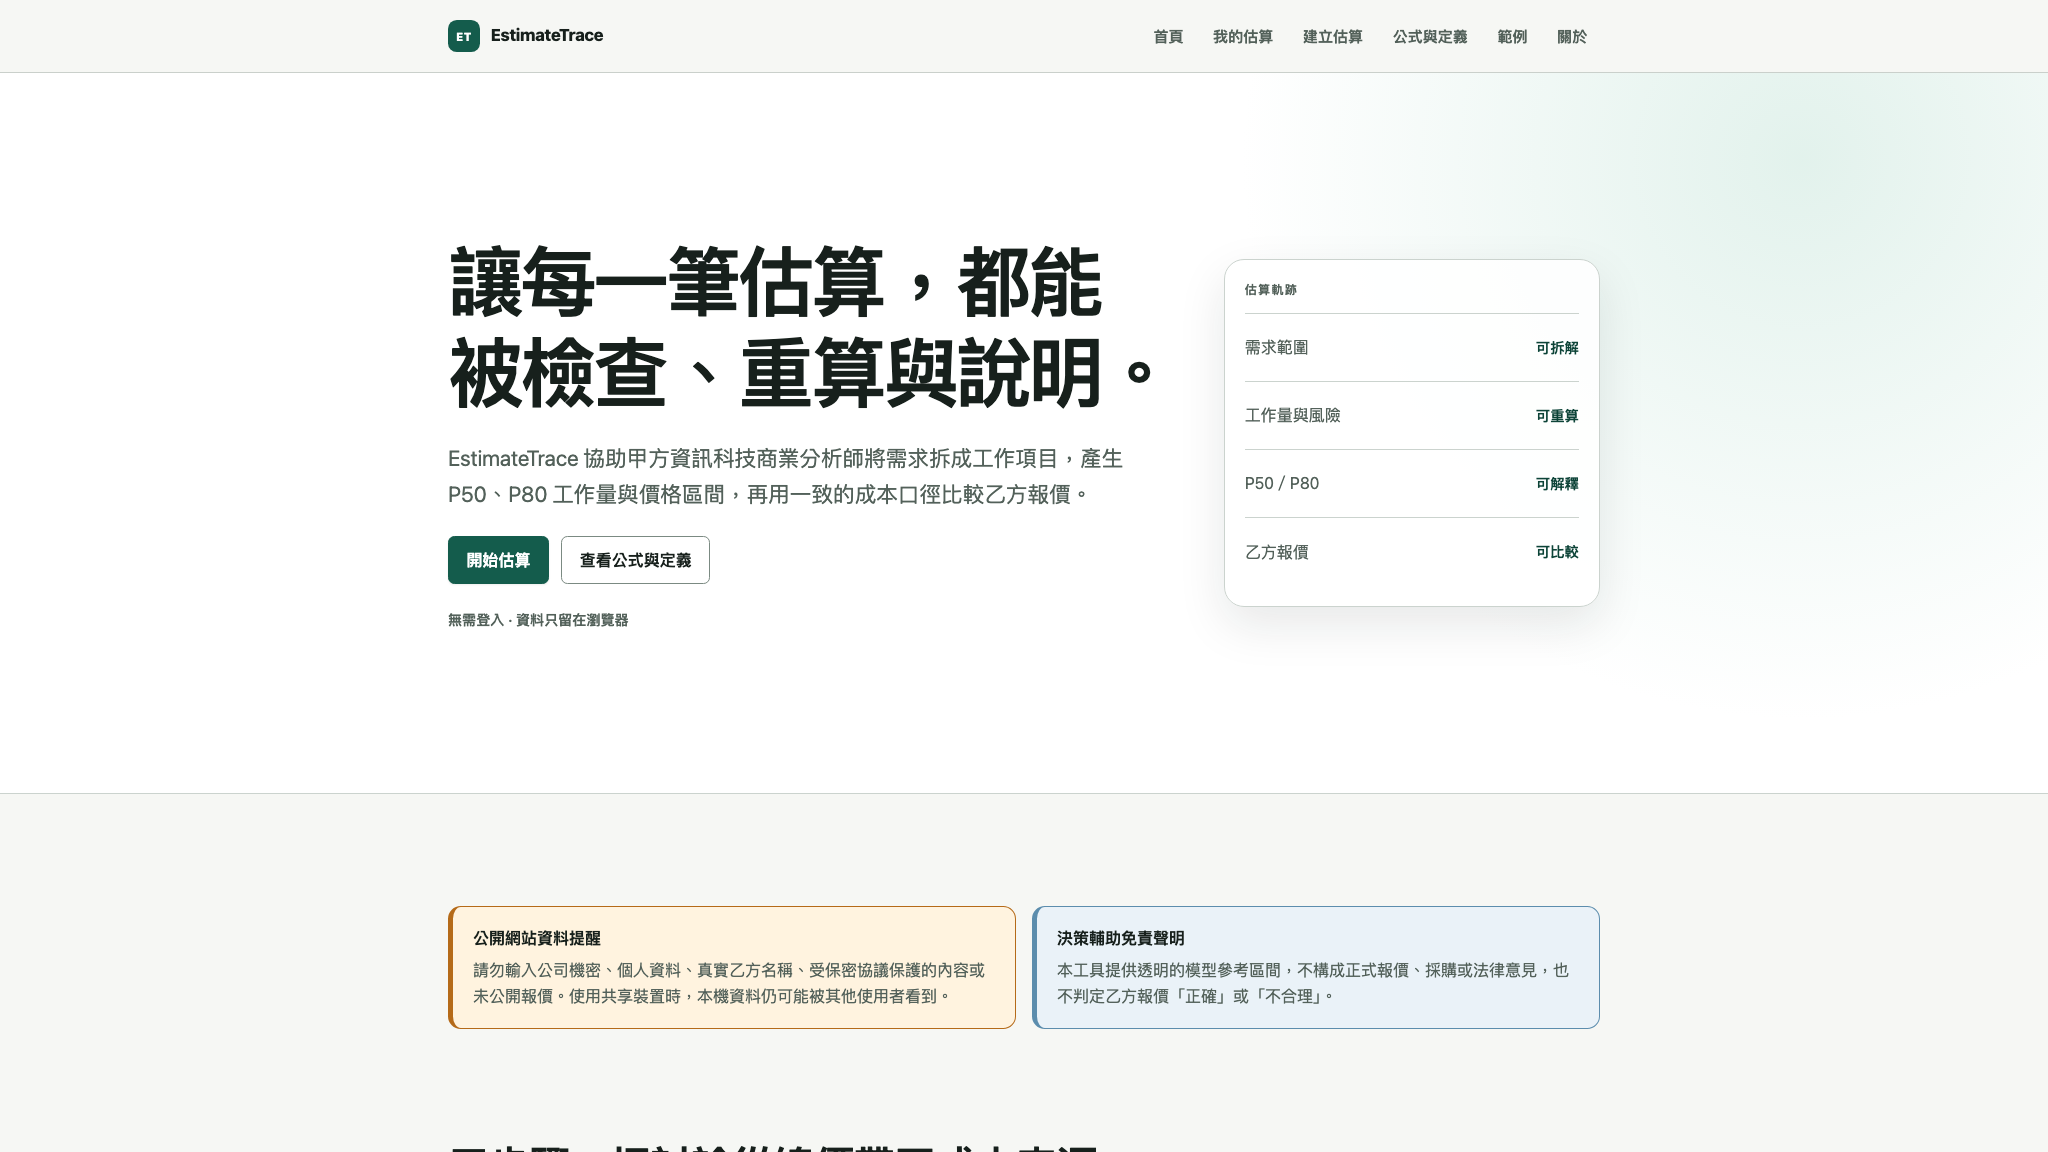
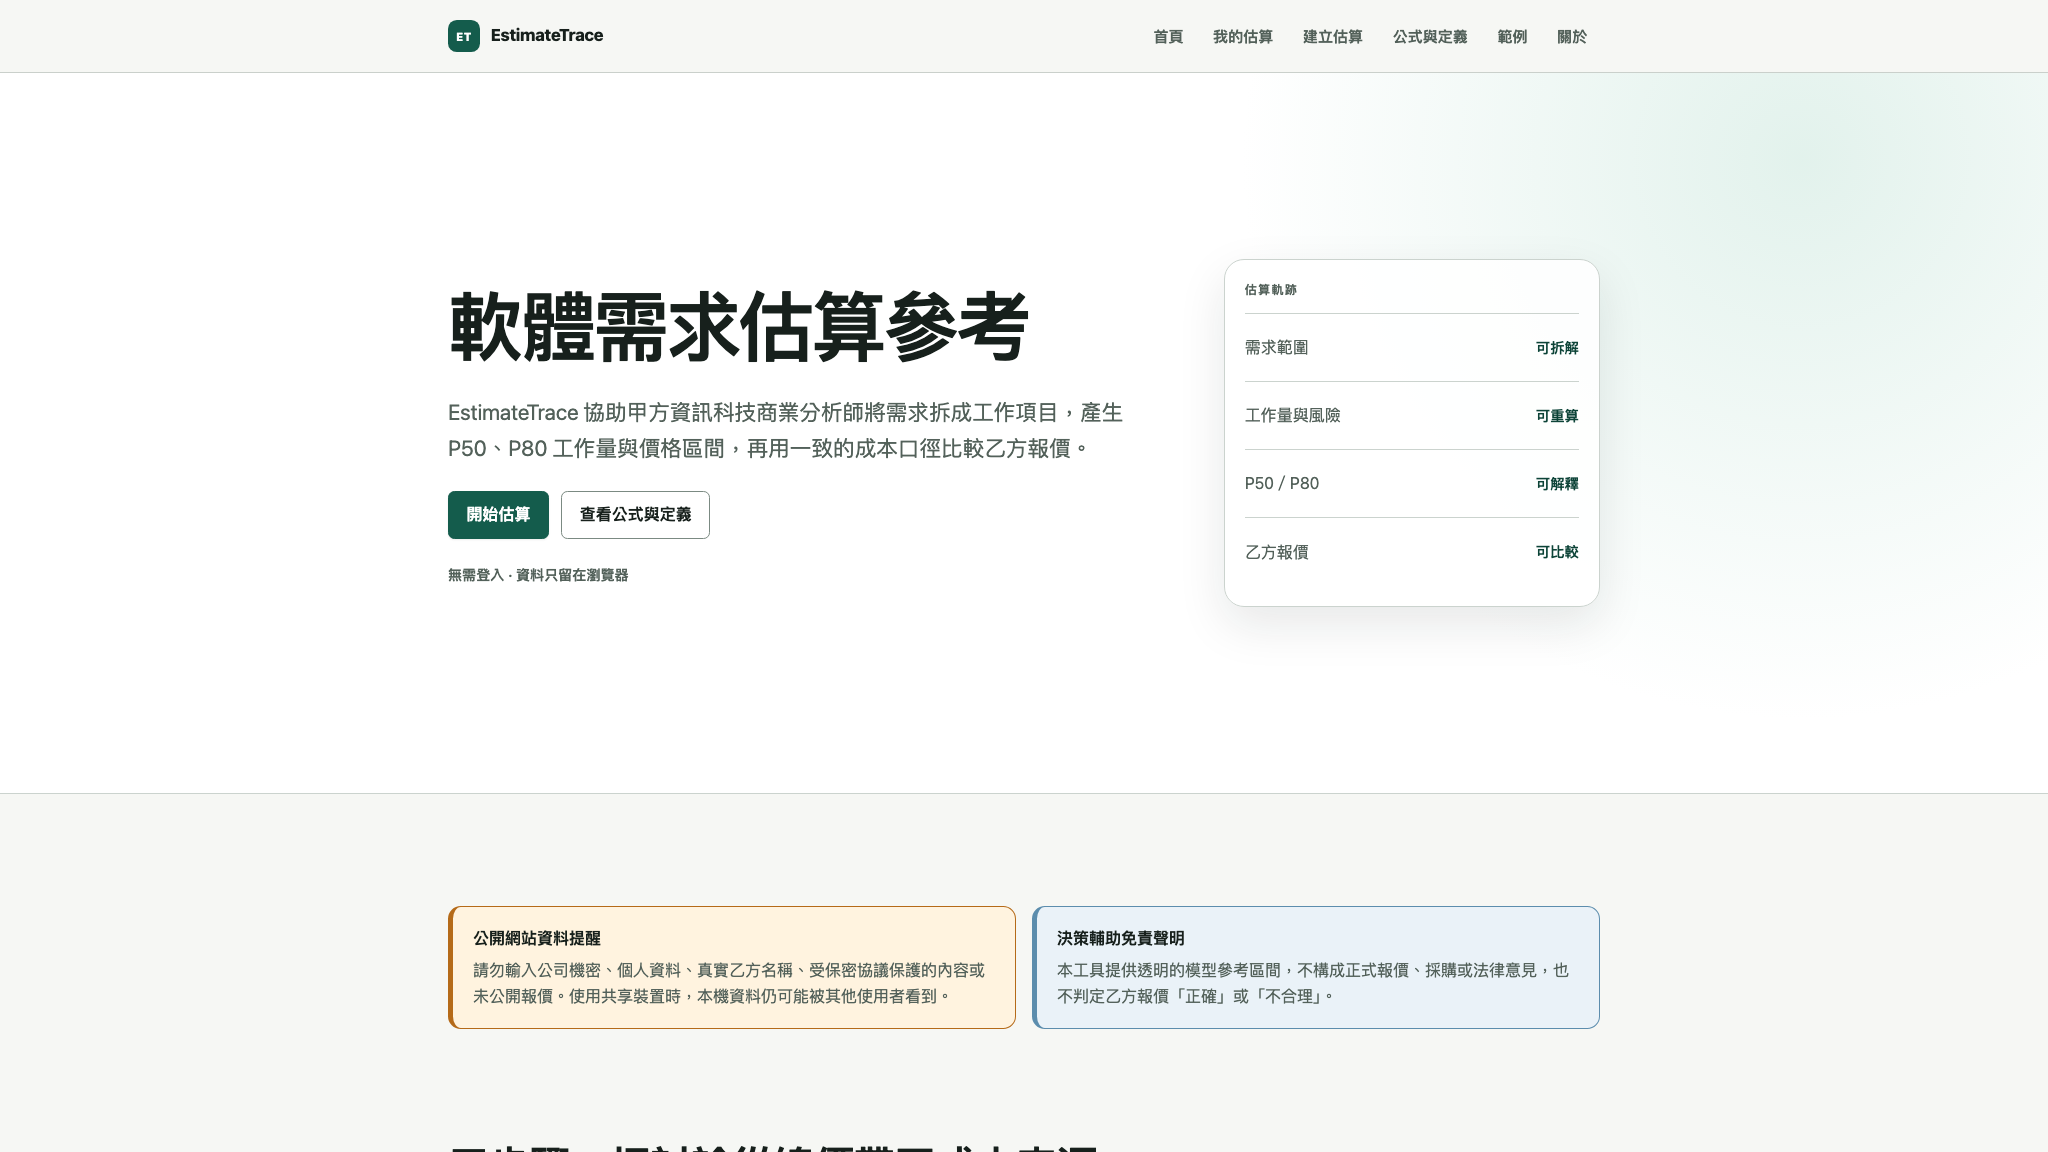
fix(home): 更新首頁主標題

Changed region(s): [[0.2188, 0.2188, 0.5625, 0.5625]]

diff --git a/src/app/page.tsx b/src/app/page.tsx
@@ -56,7 +56,7 @@ export default function HomePage() {
       <section className="hero">
         <div className="hero__inner">
           <div className="hero__copy">
-            <h1>讓每一筆估算，都能被檢查、重算與說明。</h1>
+            <h1>軟體需求估算參考</h1>
             <p className="hero__lead">
               EstimateTrace 協助甲方資訊科技商業分析師將需求拆成工作項目，產生
               P50、P80 工作量與價格區間，再用一致的成本口徑比較乙方報價。

diff --git a/tests/e2e/estimate-trace.spec.ts b/tests/e2e/estimate-trace.spec.ts
@@ -240,7 +240,7 @@ test.describe("公開內容", () => {
     await expect(
       page.getByRole("heading", {
         level: 1,
-        name: "讓每一筆估算，都能被檢查、重算與說明。",
+        name: "軟體需求估算參考",
       }),
     ).toBeVisible();
     await expect(page.locator(".hero__privacy-note")).toHaveText(

diff --git a/docs/releases/v0.1.7.md b/docs/releases/v0.1.7.md
@@ -1,0 +1,28 @@
+# EstimateTrace v0.1.7
+
+發行日期：2026-08-02
+
+正式環境：<https://estimate-trace.vercel.app>
+
+發行來源：Git annotated tag `v0.1.7`
+
+## 發行識別
+
+- Application version：`0.1.7`
+- Schema version：`1.0.0`
+- Model version：`bottom-up-1.0.0`
+- Parameter set：`public-demo-zh-tw@1.0.1`
+- Vercel project：`estimate-trace`
+- Vercel runtime：Node.js `24.x`
+- Package manager：pnpm `10.34.5`
+
+## 首頁主標題
+
+- 將首頁主標題更新為「軟體需求估算參考」。
+- 未變更估算流程、公式、數值參數、schema、model、案件格式或隱私邊界。
+
+## 驗證證據
+
+- Formatting、ESLint、TypeScript、Vitest 與 Next.js production build：通過。
+- Playwright desktop／mobile 首頁標題斷言與完整測試：通過。
+- Production smoke test、cache headers 與 runtime error scan：於 tag／push 後完成。

diff --git a/README.md b/README.md
@@ -120,6 +120,7 @@ Domain engine 不依賴 React、Next.js、Web Storage、clock、UUID 或 network
 - [Dependency management](docs/dependency-management.md)
 - [Privacy and security](docs/privacy-and-security.md)
 - [Sample data policy](docs/sample-data-policy.md)
+- [v0.1.7 發行說明](docs/releases/v0.1.7.md)
 - [v0.1.6 發行說明](docs/releases/v0.1.6.md)
 - [v0.1.5 發行說明](docs/releases/v0.1.5.md)
 
